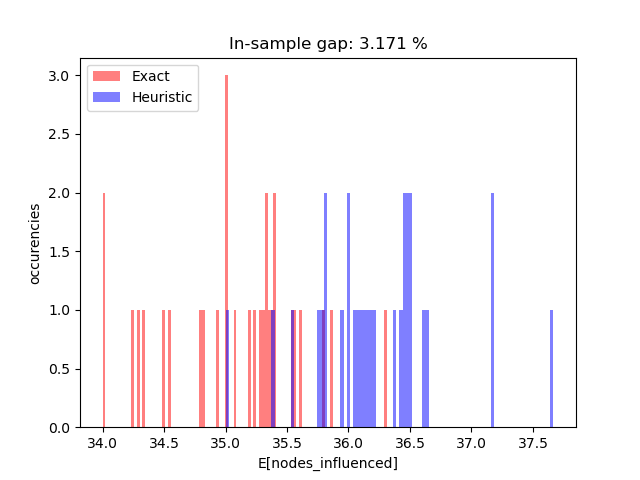
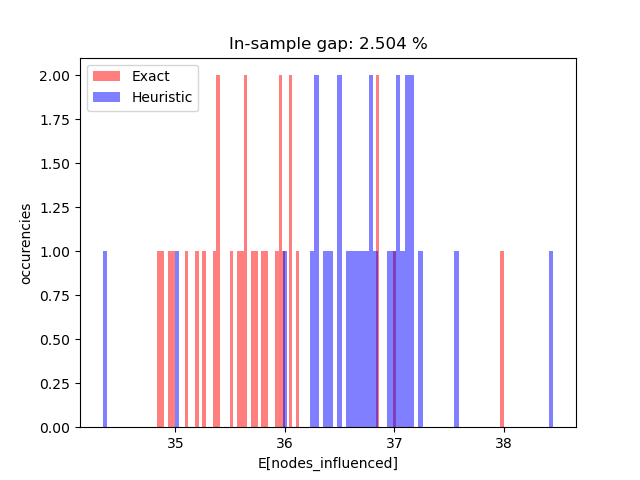
V13

diff --git a/main.py b/main.py
@@ -8,7 +8,7 @@ from simulator.tester import Tester
 from solver.LargeScaleInfluence import LargeScaleInfluence
 from heuristic.FirstHeuristic import FirstHeuristic
 from solver.sampler import Sampler
-from utility.plot_results import plot_comparison_hist, box_plots
+from utility.plot_results import plot_comparison_hist, box_plots, bar_plots
 
 import matplotlib.pyplot as plt
 
@@ -65,81 +65,97 @@ if __name__ == '__main__':
     # COMPARISON:
     # in sample stability
     test = Tester()
-    n_scenarios_in = 30
-    n_repetitions = 100
+    # n_scenarios_in = 30
+    # n_repetitions = 100
 
-    of_grblist, of_ex_boxes=test.in_sample_stability(prb, sam, inst, n_repetitions, n_scenarios_in, dict_data)
+    # of_grblist, of_ex_boxes=test.in_sample_stability(prb, sam, inst, n_repetitions, n_scenarios_in, dict_data)
 
-    of_heulist, of_heu_boxes=test.in_sample_stability(heu1, sam, inst, n_repetitions, n_scenarios_in, dict_data)
+    # of_heulist, of_heu_boxes=test.in_sample_stability(heu1, sam, inst, n_repetitions, n_scenarios_in, dict_data)
     
-    labels=range(1,n_scenarios_in+1)
+    # labels=range(1,n_scenarios_in+1)
 
-    box_plots(
-            of_grblist, 
-            labels,
-            'Repetitions',
-            "OF",
-            "OF value exact vs. number of repetitions"
-            )
+    # bar_plots(
+    #         of_ex_boxes, 
+    #         labels,
+    #         'Repetitions',
+    #         "OF",
+    #         "OF value exact vs. number of repetitions"
+    #         )
 
-    box_plots(
-            of_heulist, 
-            labels,
-            'Repetitions',
-            "OF",
-            "OF value heuristic vs. number of repetitions"
-            )
+    # bar_plots(
+    #         of_heu_boxes, 
+    #         labels,
+    #         'Repetitions',
+    #         "OF",
+    #         "OF value heuristic vs. number of repetitions"
+    #         )
 
 
 
-    plot_comparison_hist(
-            [of_grblist, of_heulist],
-            ["Exact", "Heuristic"],
-            ['red', 'blue'],
-            "E[nodes_influenced]", "occurencies", 0
-        )
+    # plot_comparison_hist(
+    #         [of_grblist, of_heulist],
+    #         ["Exact", "Heuristic"],
+    #         ['red', 'blue'],
+    #         "E[nodes_influenced]", "occurencies", 0
+    #     )
 
     # #COMPARISON:
     # #out of sample stability
 
 
-    # n_scenarios_in = 10
-    # n_scenarios_out = 100
-    # n_repetitions = 10
+    n_scenarios_in = 10
+    n_scenarios_out = 1000
+    n_repetitions = 10
+    labels=range(1, n_scenarios_out+1)
+    E_inf_grblist, E_ex_boxes=test.out_of_sample_stability(prb, sam, inst, n_repetitions, n_scenarios_in,n_scenarios_out, dict_data)
 
-    # E_inf_grblist=test.out_of_sample_stability(prb, sam, inst, n_repetitions, n_scenarios_in,n_scenarios_out, dict_data)
+    E_inf_heulist, E_heu_boxes=test.out_of_sample_stability(heu1, sam, inst, n_repetitions, n_scenarios_in, n_scenarios_out, dict_data)
 
-    # E_inf_heulist=test.out_of_sample_stability(heu1, sam, inst, n_repetitions, n_scenarios_in, n_scenarios_out, dict_data)
+    bar_plots(
+            E_ex_boxes, 
+            labels,
+            'scenarios',
+            "Influenced nodes",
+            "OutOfSampleGrb"
+            )
+
+    bar_plots(
+            E_heu_boxes, 
+            labels,
+            'scenarios',
+            "Influenced nodes",
+            "OutOfSampleHeu"
+            )
 
 
-    # plot_comparison_hist(
-    #     [E_inf_grblist, E_inf_heulist],
-    #     ["Exact", "Heuristic"],
-    #     ['red', 'blue'],
-    #     "E[nodes_influenced]", "occurencies", 1
-    # )
+    plot_comparison_hist(
+        [E_inf_grblist, E_inf_heulist],
+        ["Exact", "Heuristic"],
+        ['red', 'blue'],
+        "E[nodes_influenced]", "occurencies", 1
+    )
 
     #VSS solution
 
-    # tresh_res=0.05
-    # VSS_rho_sol, tresh=test.VSS_solve(
-    #     tresh_res,
-    #     [of_exact, of_heu],
-    #     prb,
-    #     heu1,
-    #     dict_data,
-    #     sam,
-    #     inst
-    # )
+    tresh_res=0.05
+    VSS_rho_sol, tresh=test.VSS_solve(
+        tresh_res,
+        [of_exact, of_heu],
+        prb,
+        heu1,
+        dict_data,
+        sam,
+        inst
+    )
     
-    # labels=np.around(tresh, 2)
-    # box_plots(
-    #     VSS_rho_sol, 
-    #     labels,
-    #     r'$\rho$',
-    #     "VSS",
-    #     "VSS value vs. treshold "r"$\rho$"
-    #     )
+    labels=np.around(tresh, 2)
+    box_plots(
+        VSS_rho_sol, 
+        labels,
+        r'$\rho$',
+        "VSS",
+        "VSS_rho"
+        )
 
     '''
     tipo qua definiamo il numero di prove che vogliamo fare.

diff --git a/simulator/tester.py b/simulator/tester.py
@@ -165,36 +165,41 @@ class Tester():
     """
     def out_of_sample_stability(self, problem, sampler, instance, n_repertions, n_scenarios_sol, n_scenarios_out, dict_data):
         ans = []
-        for i in range(n_repertions):
+        
 
-            reachability = sampler.reachability_generation(
-                instance,
-                n_scenarios=n_scenarios_sol
+        reachability = sampler.reachability_generation(
+            instance,
+            n_scenarios=n_scenarios_sol
+        )
+        of, sol, comp_time = problem.solve(
+            dict_data,
+            reachability,
+            n_scenarios_sol
+        )
+        
+
+        #now out of check
+        
+        reachability_out = sampler.reachability_generation(
+            instance,
+            n_scenarios=n_scenarios_out
+        )
+        
+        boxes_data=[]
+        sols_vec=np.zeros(n_scenarios_out)
+        for j in range(n_scenarios_out):
+            sol_out = self.apply_influence_model(
+                instance, sol,
+                n_scenarios_out, reachability_out[j], dict_data
             )
-            of, sol, comp_time = problem.solve(
-                dict_data,
-                reachability,
-                n_scenarios_sol
-            )
-            
+            sols_vec[j]=sol_out
+            ans.append(sol_out)
+            what=np.zeros(len(ans))
+            for m in range(len(what)):
+                what[m]=float(ans[m])
+            boxes_data.append(what)
 
-            #now out of check
-            
-            reachability_out = sampler.reachability_generation(
-                instance,
-                n_scenarios=n_scenarios_out
-            )
-
-            sols_vec=np.zeros(n_scenarios_out)
-            for j in range(n_scenarios_out):
-                sol_out = self.apply_influence_model(
-                    instance, sol,
-                    n_scenarios_out, reachability_out[j], dict_data
-                )
-                sols_vec[j]=sol_out
-                ans.append(sol_out)
-
-        return ans
+        return ans, boxes_data
 
 
 

diff --git a/utility/plot_results.py b/utility/plot_results.py
@@ -29,19 +29,21 @@ def box_plots(values, labelled, x_label, y_label, t_itle):
     pyplot.xlabel(x_label)
     pyplot.ylabel(y_label)
     pyplot.title(t_itle)
+    pyplot.grid()
     pyplot.savefig(f"./results/box_plot "+t_itle+".png")
     pyplot.close()
  
 def bar_plots(values, labelled, x_label, y_label, t_itle):
     means = []
-    vars = []
+    variances = []
     for i in values:
         means.append(np.mean(i))
-        vars.append(np.var(i))
+        variances.append(np.var(i))
 
-    pyplot.errorbar(means, vars, labels = labelled)
+    pyplot.errorbar(labelled, means, yerr=variances, linestyle='None', marker='o', ecolor='r', color='k')
     pyplot.xlabel(x_label)
     pyplot.ylabel(y_label)
     pyplot.title(t_itle)
-    pyplot.savefig(f"./results/box_plot "+t_itle+".png")
+    pyplot.grid()
+    pyplot.savefig(f"./results/bar_plot "+t_itle+".png")
     pyplot.close()
